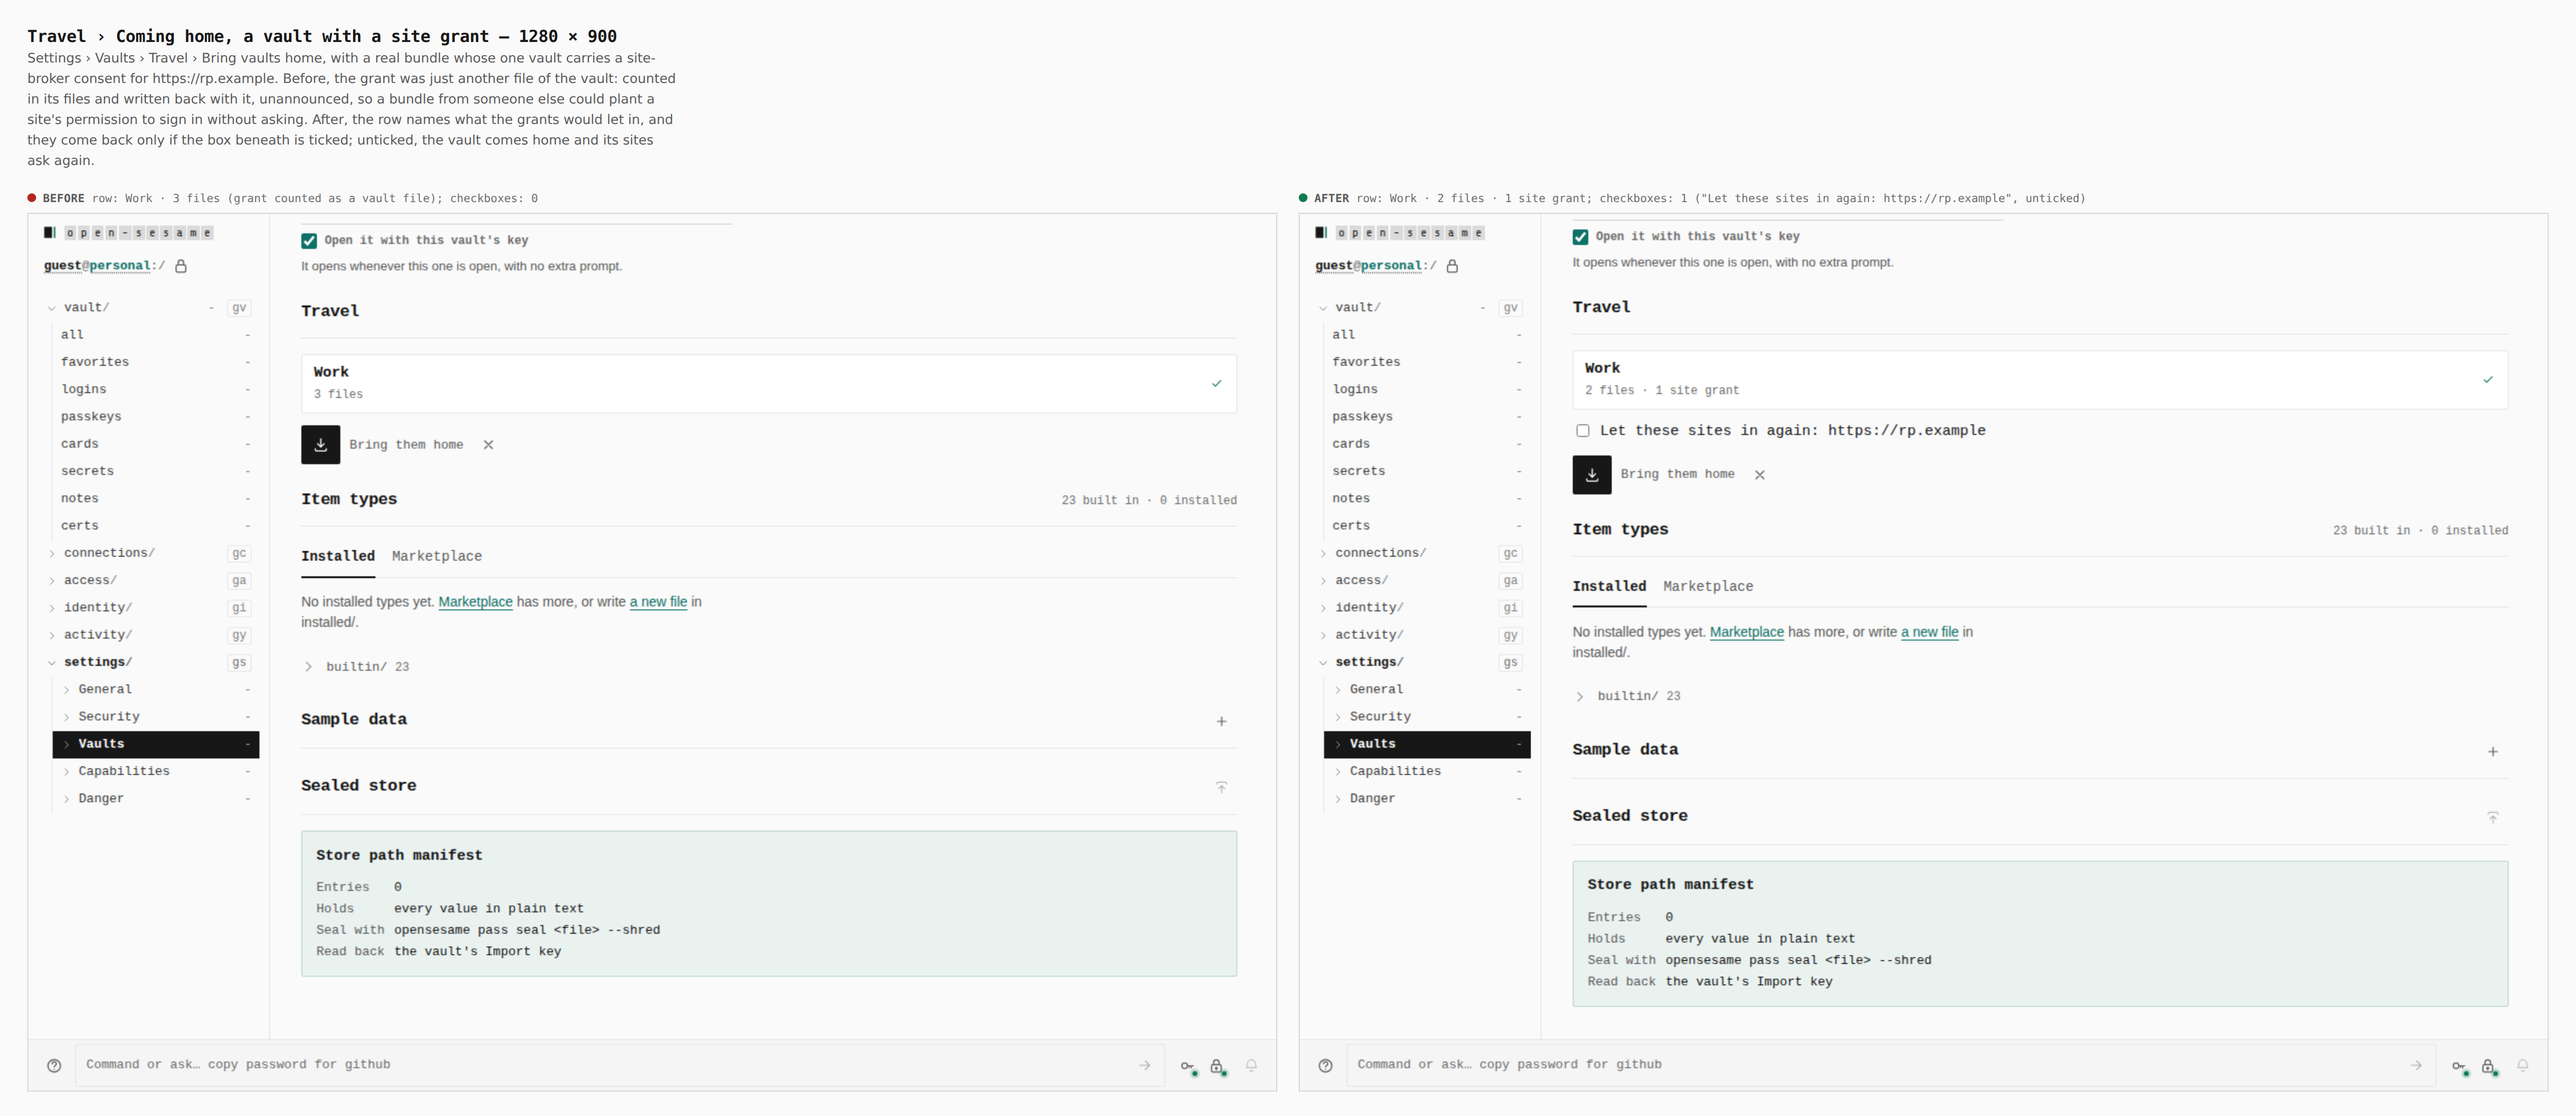
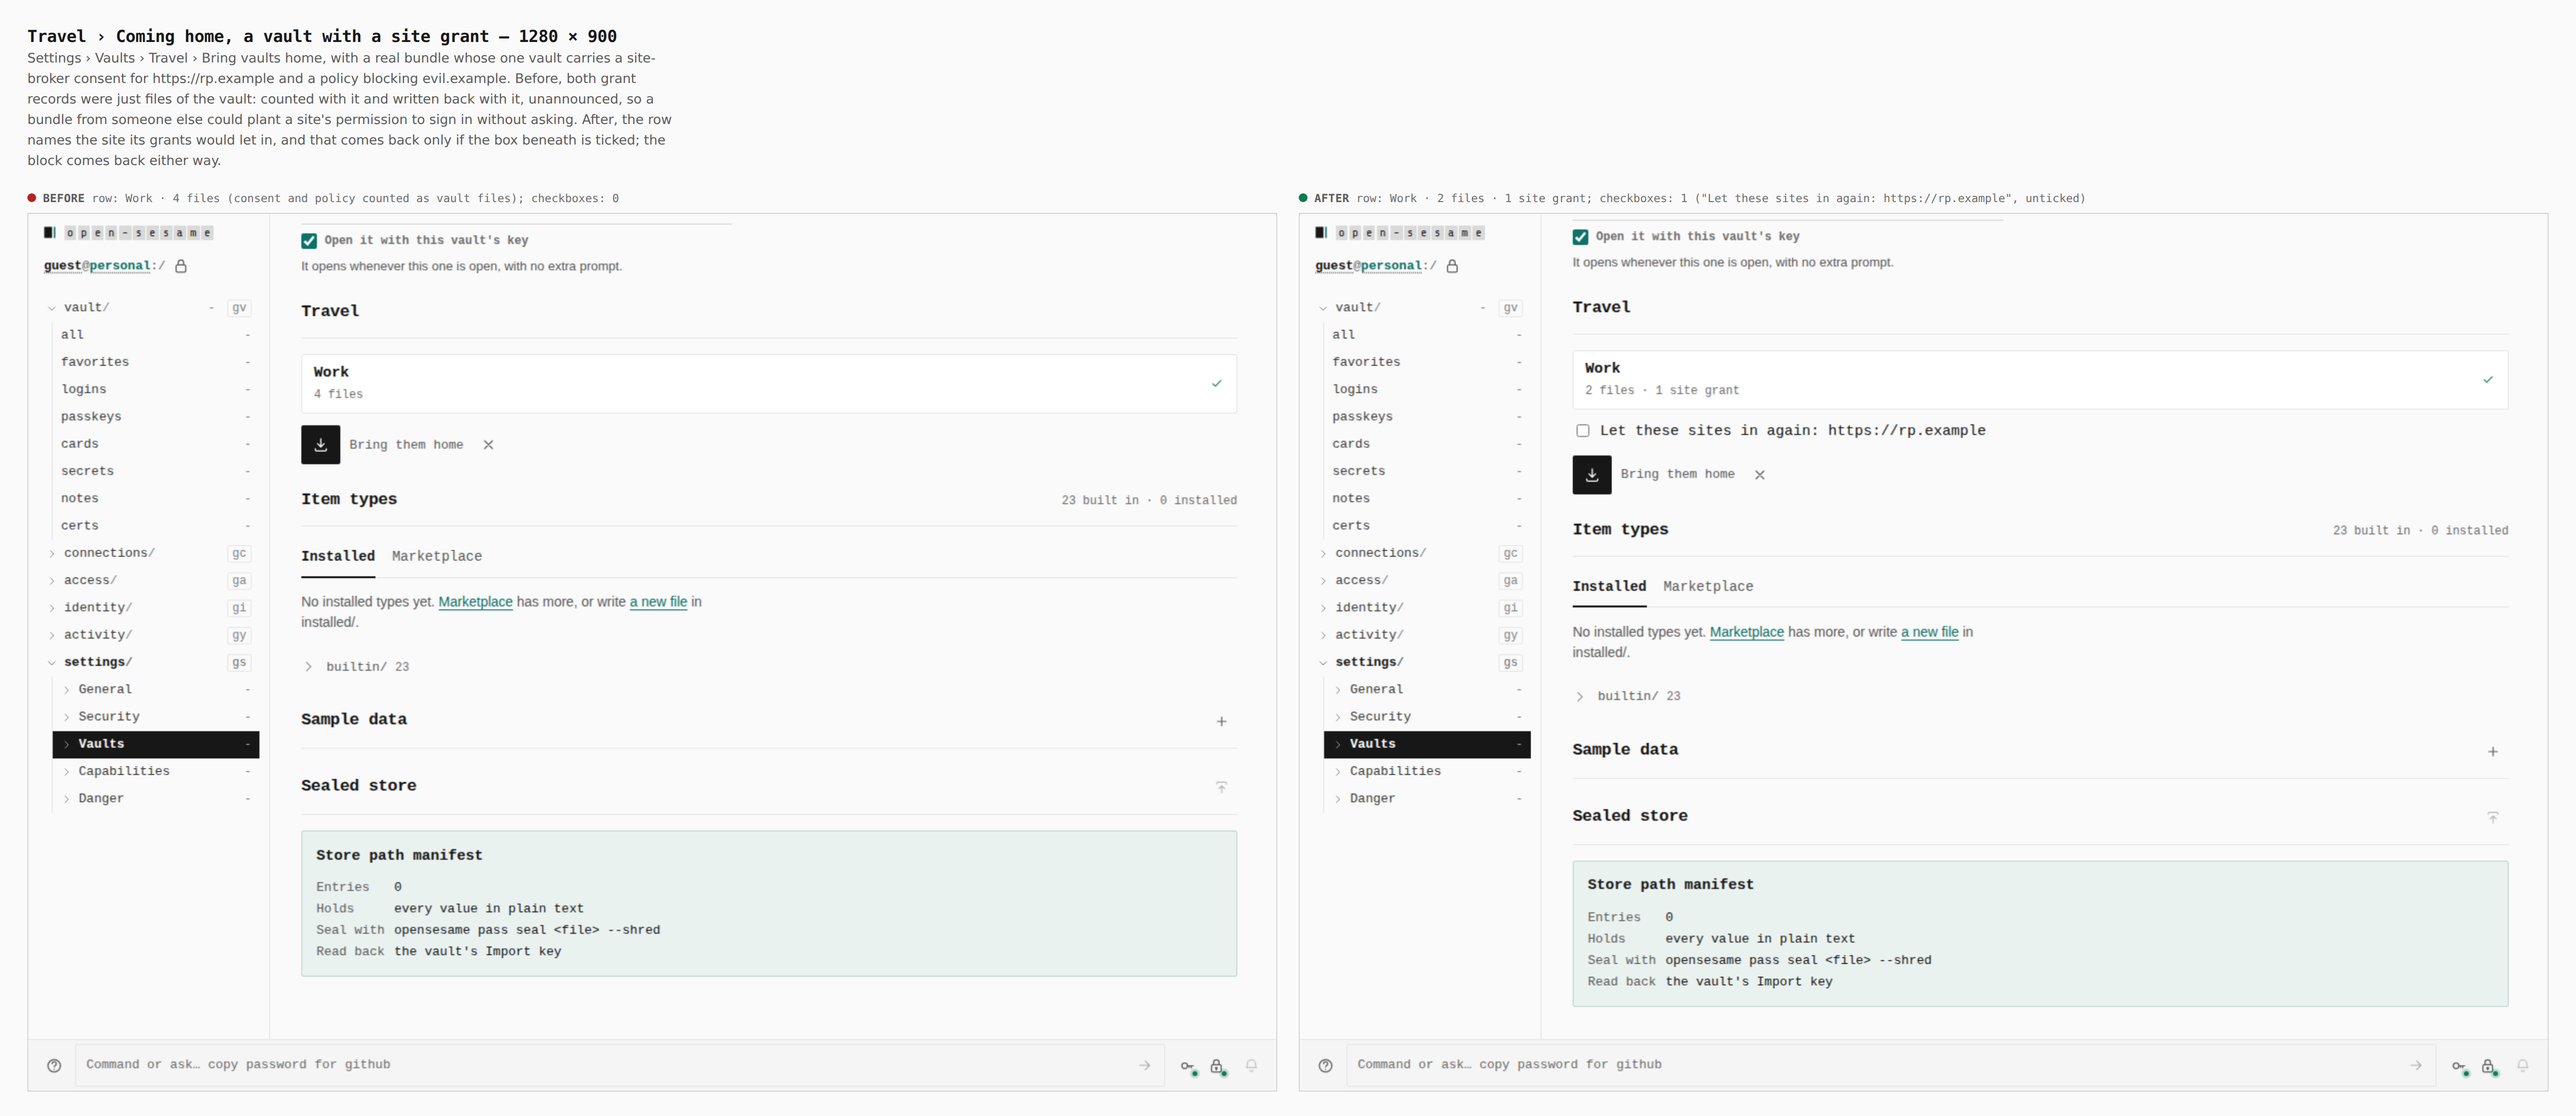
Evidence: recapture the travel return preview against the corrected grants
Claude-Session: https://claude.ai/code/session_01JYZp3HuuHXivm3L3ujWmri

Changed region(s): [[0.0, 0.0621, 0.2487, 0.1864]]

diff --git a/docs/evidence/2026-09-28-travel-grants/README.md b/docs/evidence/2026-09-28-travel-grants/README.md
@@ -17,8 +17,8 @@ the bundle is chosen, and Open the bundle is pressed.
 
 | | Before | After |
 |---|---|---|
-| Bundle row | `Work` · `3 files` — the grant counted as a vault file | `Work` · `2 files · 1 site grant` |
-| Opt-in | none: the grant was written back with the vault | one checkbox, unticked: "Let these sites in again: https://rp.example" |
+| Bundle row | `Work` · `4 files` — the consent and the policy counted as vault files | `Work` · `2 files · 1 site grant` |
+| Opt-in | none: both records were written back with the vault | one checkbox, unticked: "Let these sites in again: https://rp.example" |
 
 ![1280 × 900](1280-return-grants.png)
 
